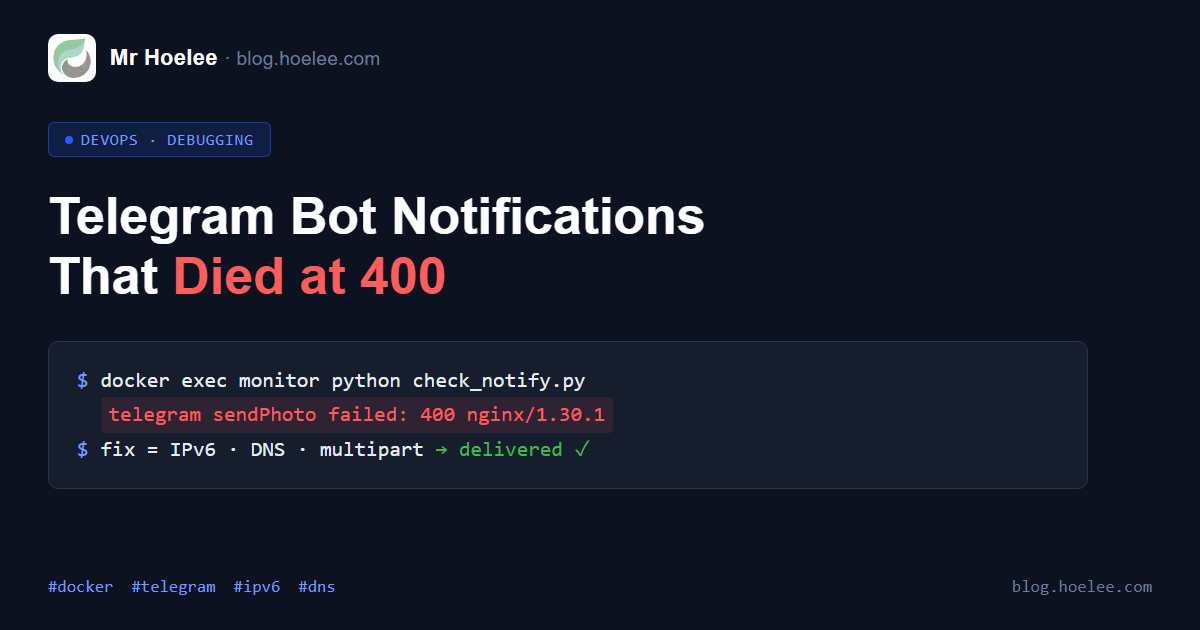
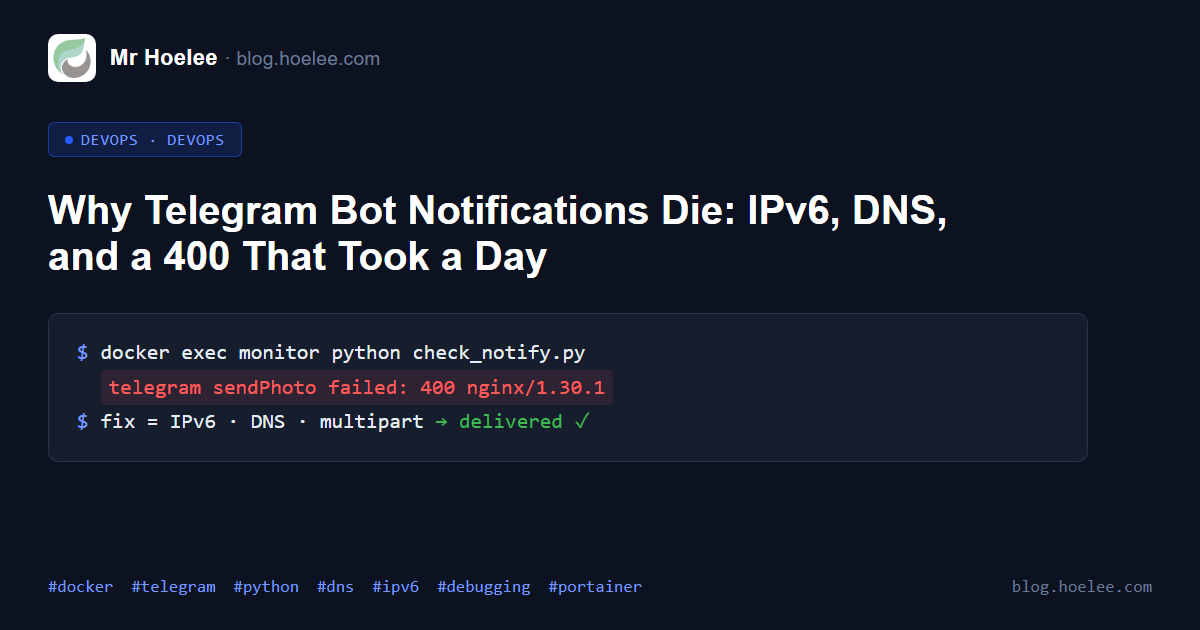
Add og-gen script: reusable per-post OG image generator

diff --git a/scripts/og-gen/template.html b/scripts/og-gen/template.html
@@ -44,7 +44,7 @@
   .title {
     margin: 30px 48px 0;
     font-family: "Space Grotesk", "Plus Jakarta Sans", sans-serif;
-    font-weight: 700; font-size: 40px;
+    font-weight: 700; font-size: {{TITLE_SIZE}}px;
     line-height: 1.15; color: #ffffff; max-width: 1000px;
   }
   .title .accent { color: #ff5c5c; }
@@ -73,23 +73,20 @@
 </head>
 <body>
   <div class="topbar">
-    <div class="avatar"><img src="file:///D:/dev/hoelee-blog/public/logo-square.png" alt=""></div>
+    <div class="avatar"><img src="{{LOGO_PATH}}" alt=""></div>
     <div class="brand">Mr Hoelee <span class="domain">· blog.hoelee.com</span></div>
   </div>
 
-  <div class="tag"><span class="dot"></span>devops · DevOps</div>
+  <div class="tag"><span class="dot"></span>{{CATEGORY}} · {{KIND}}</div>
 
-  <div class="title">Why Telegram Bot Notifications Die: IPv6, DNS,<br>and a 400 That Took a Day</div>
+  <div class="title">{{TITLE_HTML}}</div>
 
   <div class="terminal">
-    
-    <div class="line"><span class="prompt">$</span><span class="cmd">docker exec monitor python check_notify.py</span></div>
-    <div class="line"><span class="prompt">&nbsp;</span><span class="err">telegram sendPhoto failed: 400 nginx/1.30.1</span></div>
-    <div class="line"><span class="prompt">$</span><span class="cmd">fix = IPv6 · DNS · multipart</span><span class="fix">→ delivered ✓</span></div>
+    {{TERMINAL_HTML}}
   </div>
 
   <div class="footer">
-    <div class="tags"><span>#docker</span><span>#telegram</span><span>#python</span><span>#dns</span><span>#ipv6</span><span>#debugging</span><span>#portainer</span></div>
+    <div class="tags">{{TAGS_HTML}}</div>
     <div class="url">blog.hoelee.com</div>
   </div>
 </body>

diff --git a/scripts/og-gen/README.md b/scripts/og-gen/README.md
@@ -1,0 +1,44 @@
+# og-gen — per-post OG image generator
+
+Generates a branded 1200×630 social-share image for a blog post, matching the
+site's cobalt-blue `#295cff` branding, the `logo-square.png` mark, and the
+"terminal / debugging" visual style.
+
+## Usage
+
+```bash
+node scripts/og-gen/generate.mjs <post-slug>
+```
+
+Reads frontmatter (`title`, `category`, `tags`) from
+`src/content/posts/<slug>.md`, fills `template.html`, renders with headless
+Chrome, and writes `public/og/<slug>.png`.
+
+The post's frontmatter needs `ogImage: /og/<slug>.png` so the blog serves it
+(layout already renders `og:image` + width/height; PostList shows it as a
+card thumbnail).
+
+## Customizing the terminal box
+
+Each post shows a "terminal" panel (the red error / green fix lines). Add an
+entry keyed by slug in `TERMINALS` inside `generate.mjs`, using these tokens:
+
+```html
+<div class="line"><span class="prompt">$</span><span class="cmd">command</span></div>
+<div class="line"><span class="prompt">&nbsp;</span><span class="err">error line</span></div>
+<div class="line"><span class="prompt">$</span><span class="cmd">fix</span><span class="fix">→ done ✓</span></div>
+```
+
+No entry → a generic default terminal.
+
+## Requirements
+
+- Google Chrome at `C:\Program Files\Google\Chrome\Application\chrome.exe`
+  (override with `CHROME_PATH` env var).
+- Node 20+.
+
+## Notes
+
+- PNG (not JPG) is intentional: for flat UI/terminal art, PNG is smaller and
+  sharper than JPG (see commit history).
+- The `logo-square.png` referenced lives at `public/logo-square.png`.
